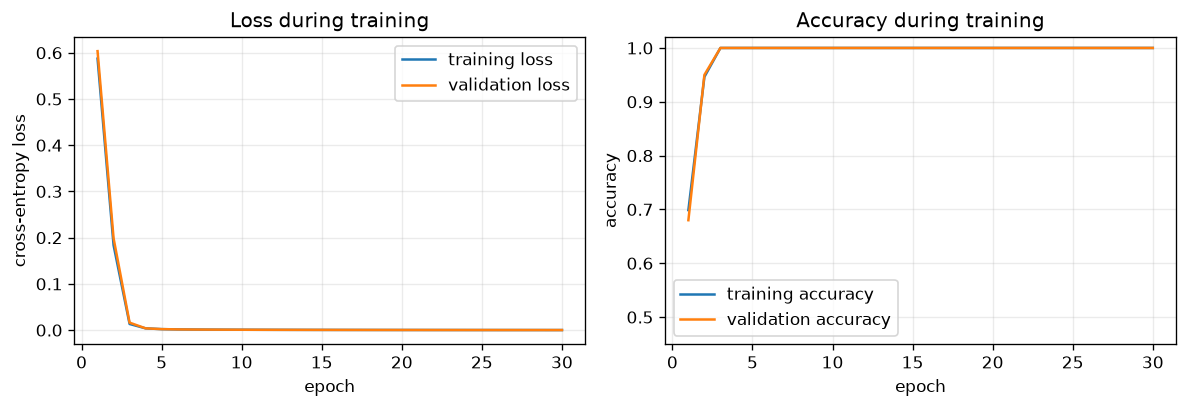
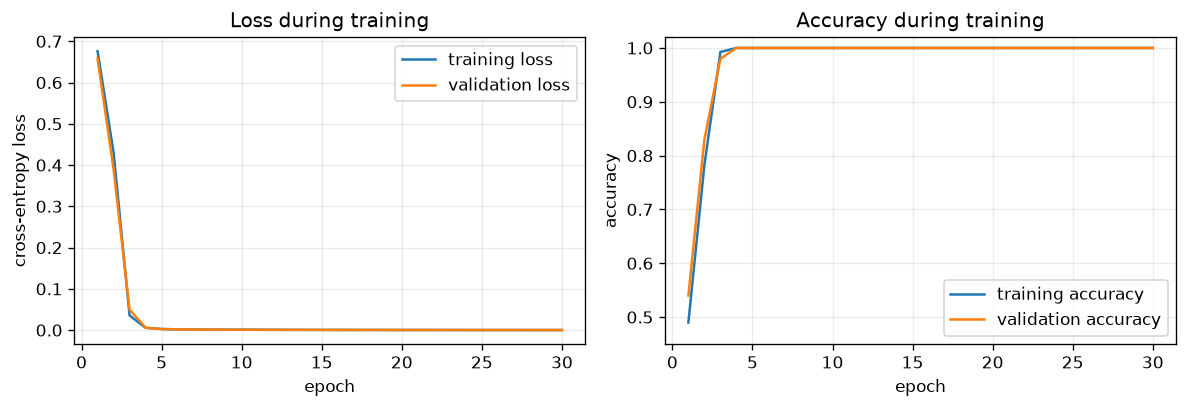
Fix tiny transformer validation split leakage

diff --git a/experiments/tiny-transformer/README.md b/experiments/tiny-transformer/README.md
@@ -19,11 +19,11 @@ tokens → token embeddings + positional embeddings → one encoder block
 
 Read the diagram from left to right: the encoder block turns every token into a contextual representation, while the final `[CLS]` vector is used for the sequence-level prediction.
 
-The notebook uses 1,000 seeded examples with an 800/200 train/validation split, a `d_model` of 32, four attention heads, and one `32 → 64 → 32` FFN. It has no test set, padding, mask, or ablation: all sequences have the same length and encoder attention can use the whole input.
+The notebook selects 1,000 unique seeded examples from the finite valid-sequence space, shuffles them deterministically, and uses an 800/200 train/validation split. This keeps the splits disjoint. The model has a `d_model` of 32, four attention heads, and one `32 → 64 → 32` FFN. It has no test set, padding, mask, or ablation: all sequences have the same length and encoder attention can use the whole input.
 
 ## Observed results
 
-In the recorded deterministic run, validation accuracy was `0.680` after epoch 1 and reached `1.000` by epoch 5, remaining there through epoch 30. Final validation loss was `0.0002`.
+In the recorded deterministic run, validation accuracy was `0.540` after epoch 1 and reached `1.000` by epoch 5, remaining there through epoch 30. Final validation loss was `0.0002`.
 
 ### How to read the figure
 
